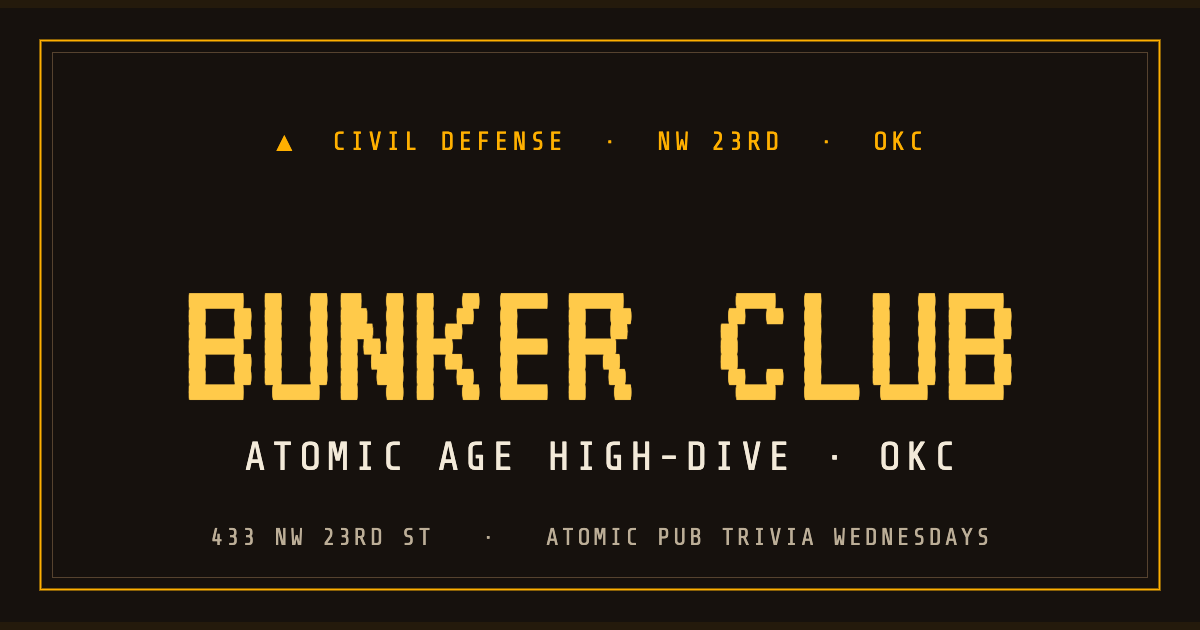
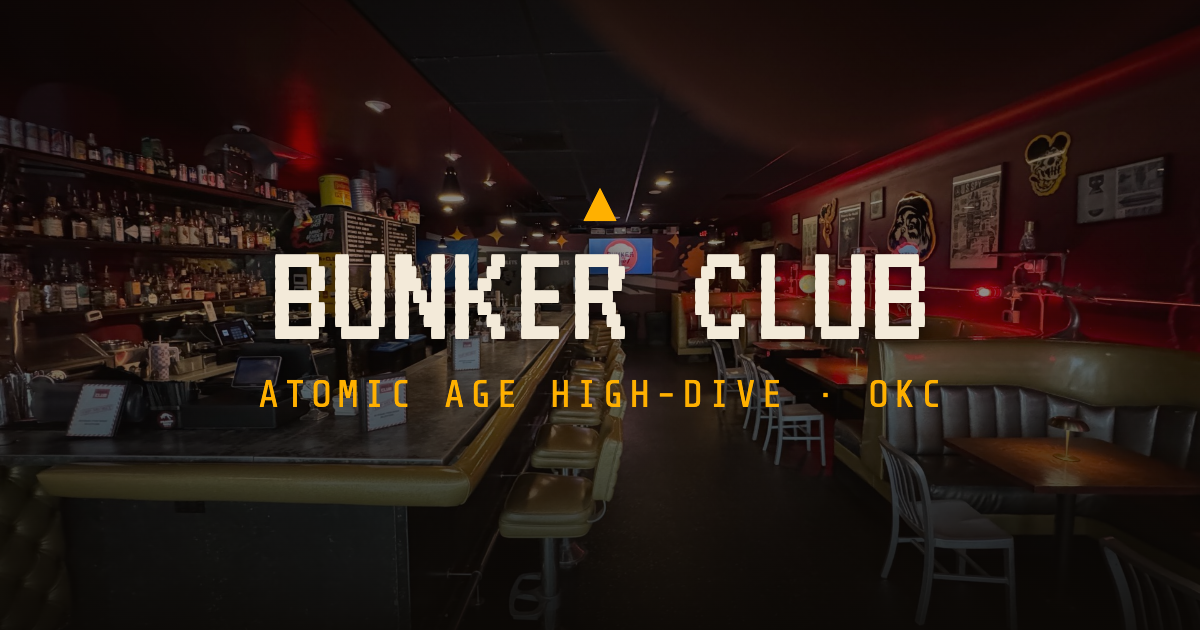
site-refinement-1: owner interior photos + photographic OG card
Optimized three owner iPhone interiors (4032x2268, rights clean) into
responsive srcset pairs in public/photos (sips resize + APP1/EXIF strip;
~1.3 MB total, six files):
- hero-room {1920,960}: the long-room shot as the Home hero backdrop —
  absolutely-positioned object-fit:cover <img> (zero layout box = zero CLS),
  eager + fetchpriority=high, with a responsive imagesrcset preload in
  index.html matching the <img> exactly (no double-download). A left-weighted
  darkening scrim keeps the cream headline + dim sub-copy WCAG-AA legible over
  the photo at both widths.
- booths-daylight {1400,700}: lazy, srcset, near the top of /visit.
- bar-rules {1400,700}: lazy, srcset, above the /about story.

Rebuilt og-default.png (1200x630, real photo) via in-browser canvas: the hero
photo darkened with the VT323 "BUNKER CLUB" wordmark + "ATOMIC AGE HIGH-DIVE ·
OKC" — real-photo OG cards convert better than the prior graphic.

Verified: tsc + build clean; Lighthouse mobile on / = perf 92 (>=90 gate),
CLS 0.12 (<= ~0.13 baseline); 390px no-overflow on / and /visit; hero text
legible over the photo at mobile + desktop widths.

diff --git a/apps/web/src/modules/website/site.css b/apps/web/src/modules/website/site.css
@@ -257,10 +257,36 @@
       rgba(255, 176, 0, 0.05) 38px, rgba(255, 176, 0, 0.05) 40px);
   pointer-events: none;
 }
-.site-hero__inner { position: relative; }
+/* Owner interior photo behind the hero. Absolute + cover = no layout box = no CLS.
+   The CSS radial-ring garnish (::before) and gradient background survive as the
+   fallback if the image 404s or is still loading. */
+.site-hero__bg {
+  position: absolute;
+  inset: 0;
+  width: 100%;
+  height: 100%;
+  object-fit: cover;
+  object-position: center 70%;
+  z-index: 0;
+}
+/* Darkening scrim so the cream headline + dim sub-copy clear WCAG-AA over the
+   photo's bright spots (gold bar, red glow) while the room stays clearly visible.
+   Left-weighted (text is left-aligned) so the right side keeps more of the photo;
+   a bottom lift seats the CTAs. Tuned so #f3ead9 and #bcae97 both pass ≥4.5:1 in
+   the text column (a text-shadow on the h1 covers the brightest gold highlights). */
+.site-hero__scrim {
+  position: absolute;
+  inset: 0;
+  z-index: 1;
+  background:
+    linear-gradient(90deg, rgba(11, 8, 5, 0.85) 0%, rgba(11, 8, 5, 0.55) 44%, rgba(11, 8, 5, 0.16) 100%),
+    linear-gradient(to top, rgba(11, 8, 5, 0.72) 0%, rgba(11, 8, 5, 0) 50%);
+  pointer-events: none;
+}
+.site-hero__inner { position: relative; z-index: 2; }
 .site-hero h1 {
   color: var(--site-ink);
-  text-shadow: 0 0 24px rgba(255, 176, 0, 0.18);
+  text-shadow: 0 2px 18px rgba(0, 0, 0, 0.6);
 }
 .site-hero__sub {
   max-width: 46ch;
@@ -341,10 +367,82 @@
 .site-hours tr[data-today="true"] th { color: var(--site-amber); }
 .site-hours .closed { color: var(--site-ink-dim); }
 
+/* ── Content photo (about / visit) ───────────────────────────────────────── */
+/* Full-width editorial image. width/height on the <img> reserve the 16:9 box so
+   the lazy load never shifts layout (zero CLS). Sharp corners + a hairline frame
+   keep the terminal aesthetic. */
+.site-photo {
+  display: block;
+  width: 100%;
+  height: auto;
+  aspect-ratio: 16 / 9;
+  object-fit: cover;
+  border: 1px solid var(--site-line-strong);
+  background: var(--site-bg-raised);
+}
+.site-photo__cap {
+  font-family: var(--site-font-mono);
+  text-transform: uppercase;
+  letter-spacing: 0.14em;
+  font-size: 0.68rem;
+  color: var(--site-ink-dim);
+  margin: 0.5rem 0 0;
+}
+
 /* ── Prose (about) ───────────────────────────────────────────────────────── */
 .site-prose { max-width: 62ch; }
 .site-prose p { margin: 0 0 1.15rem; color: var(--site-ink); }
 .site-prose p:first-of-type { font-size: 1.12rem; }
+
+/* ── CLUB RULES (about) ──────────────────────────────────────────────────── */
+/* Echoes the hand-lettered house rules painted on the barroom wall: the display
+   font (VT323), forced uppercase (the wall is all-caps), amber glow on dark, one
+   rule per centered line, Civil-Defense triangle markers. Owner-editable copy
+   comes from site_club_rules; the styling lives here. */
+.site-rules {
+  margin-top: 2.75rem;
+  padding: clamp(1.5rem, 5vw, 2.5rem) clamp(1.25rem, 5vw, 2.5rem) clamp(1.75rem, 5vw, 2.75rem);
+  border: 1px solid var(--site-line-strong);
+  border-left: 3px solid var(--site-signal);
+  background:
+    radial-gradient(130% 100% at 0% 0%, rgba(255, 122, 69, 0.07), transparent 60%),
+    var(--site-bg-raised);
+}
+.site-rules__head {
+  font-family: var(--site-font-display);
+  color: var(--site-amber);
+  text-align: center;
+  font-size: clamp(1.9rem, 7vw, 2.8rem);
+  letter-spacing: 0.05em;
+  margin: 0 0 1.4rem;
+  text-shadow: 0 0 20px rgba(255, 176, 0, 0.25);
+}
+.site-rules__list {
+  list-style: none;
+  margin: 0 auto;
+  padding: 0;
+  max-width: 42ch;
+  display: flex;
+  flex-direction: column;
+  gap: 0.95rem;
+}
+.site-rules__list li {
+  font-family: var(--site-font-display);
+  text-transform: uppercase;
+  font-size: clamp(1.25rem, 4.4vw, 1.7rem);
+  line-height: 1.12;
+  letter-spacing: 0.03em;
+  color: var(--site-amber-bright);
+  text-align: center;
+  text-wrap: balance;
+}
+.site-rules__list li::before {
+  content: "▲";
+  color: var(--site-signal);
+  font-size: 0.62em;
+  margin-right: 0.5em;
+  vertical-align: 0.18em;
+}
 
 /* ── Map ─────────────────────────────────────────────────────────────────── */
 .site-map {

diff --git a/apps/web/src/modules/website/pages/Home.tsx b/apps/web/src/modules/website/pages/Home.tsx
@@ -76,6 +76,24 @@ export function Home() {
 
       {/* ── Hero ── */}
       <section className="site-hero">
+        {/* Owner interior photo as the hero backdrop. Absolutely positioned + object-fit
+            cover so it never participates in layout (zero CLS); the .site-hero box height
+            is still set by its padding + the text content. Eager + fetchpriority=high +
+            the index.html imagesrcset preload make it the LCP. srcset/sizes here MUST match
+            the preload's imagesrcset/imagesizes. DECISION: descriptive alt (real editorial
+            photo of the venue, not decoration) rather than empty. */}
+        <img
+          className="site-hero__bg"
+          src="/photos/hero-room-1920.jpg"
+          srcSet="/photos/hero-room-960.jpg 960w, /photos/hero-room-1920.jpg 1920w"
+          sizes="100vw"
+          width={1920}
+          height={1080}
+          fetchPriority="high"
+          decoding="async"
+          alt="Inside Bunker Club — a long pewter bar lined with gold stools, red vinyl booths across the room, and screens glowing at the back"
+        />
+        <div className="site-hero__scrim" aria-hidden />
         <div className="site-wrap site-hero__inner">
           <p className="site-label">▲ Shelter for the thirsty · OKC</p>
           <h1>{copy?.heroTitle ?? "BUNKER CLUB"}</h1>

diff --git a/apps/web/src/modules/website/pages/Visit.tsx b/apps/web/src/modules/website/pages/Visit.tsx
@@ -39,6 +39,23 @@ export function Visit() {
           <p className="site-label">Plan Your Visit</p>
           <h1>VISIT</h1>
 
+          {/* "This is what it feels like inside." Lazy + explicit dims (16:9 box
+              reserved by width/height) so it never shifts the page as it loads. */}
+          <figure style={{ margin: "1.5rem 0 0" }}>
+            <img
+              className="site-photo"
+              src="/photos/booths-daylight-1400.jpg"
+              srcSet="/photos/booths-daylight-700.jpg 700w, /photos/booths-daylight-1400.jpg 1400w"
+              sizes="(max-width: 1080px) 100vw, 1080px"
+              width={1400}
+              height={787}
+              loading="lazy"
+              decoding="async"
+              alt="Bunker Club's red vinyl booths under warm light, with daylight coming through the front windows onto the bar"
+            />
+            <figcaption className="site-photo__cap">Inside the Bunker — booths, red glow, and a window on NW 23rd</figcaption>
+          </figure>
+
           <div className="site-grid-2" style={{ marginTop: "2rem" }}>
             {/* Left — address, hours, parking, contact */}
             <div>

diff --git a/apps/web/index.html b/apps/web/index.html
@@ -33,6 +33,19 @@
     <noscript>
       <link rel="stylesheet" href="https://fonts.googleapis.com/css2?family=VT323&family=Share+Tech+Mono&display=swap" />
     </noscript>
+    <!-- Home-hero LCP preload (site-refinement-1). imagesrcset/imagesizes mirror the
+         <img class="site-hero__bg"> srcset+sizes EXACTLY, so the preload fetches the
+         same candidate the img resolves to at any DPR (mobile picks 960w, desktop
+         1920w) — no double-download. index.html is shared by every route, so this
+         preload is only "used" on `/`; the marginal cost on internal pages is one
+         idle hint, and the LCP win on the common landing (`/`) is the point. -->
+    <link
+      rel="preload"
+      as="image"
+      fetchpriority="high"
+      imagesrcset="/photos/hero-room-960.jpg 960w, /photos/hero-room-1920.jpg 1920w"
+      imagesizes="100vw"
+    />
     <title>BUNKER UNIFIED OS</title>
     <!-- Static default SEO/OpenGraph block (W1). The public site normally manages
          these tags per-route from JS (see modules/website/seo.tsx), but link